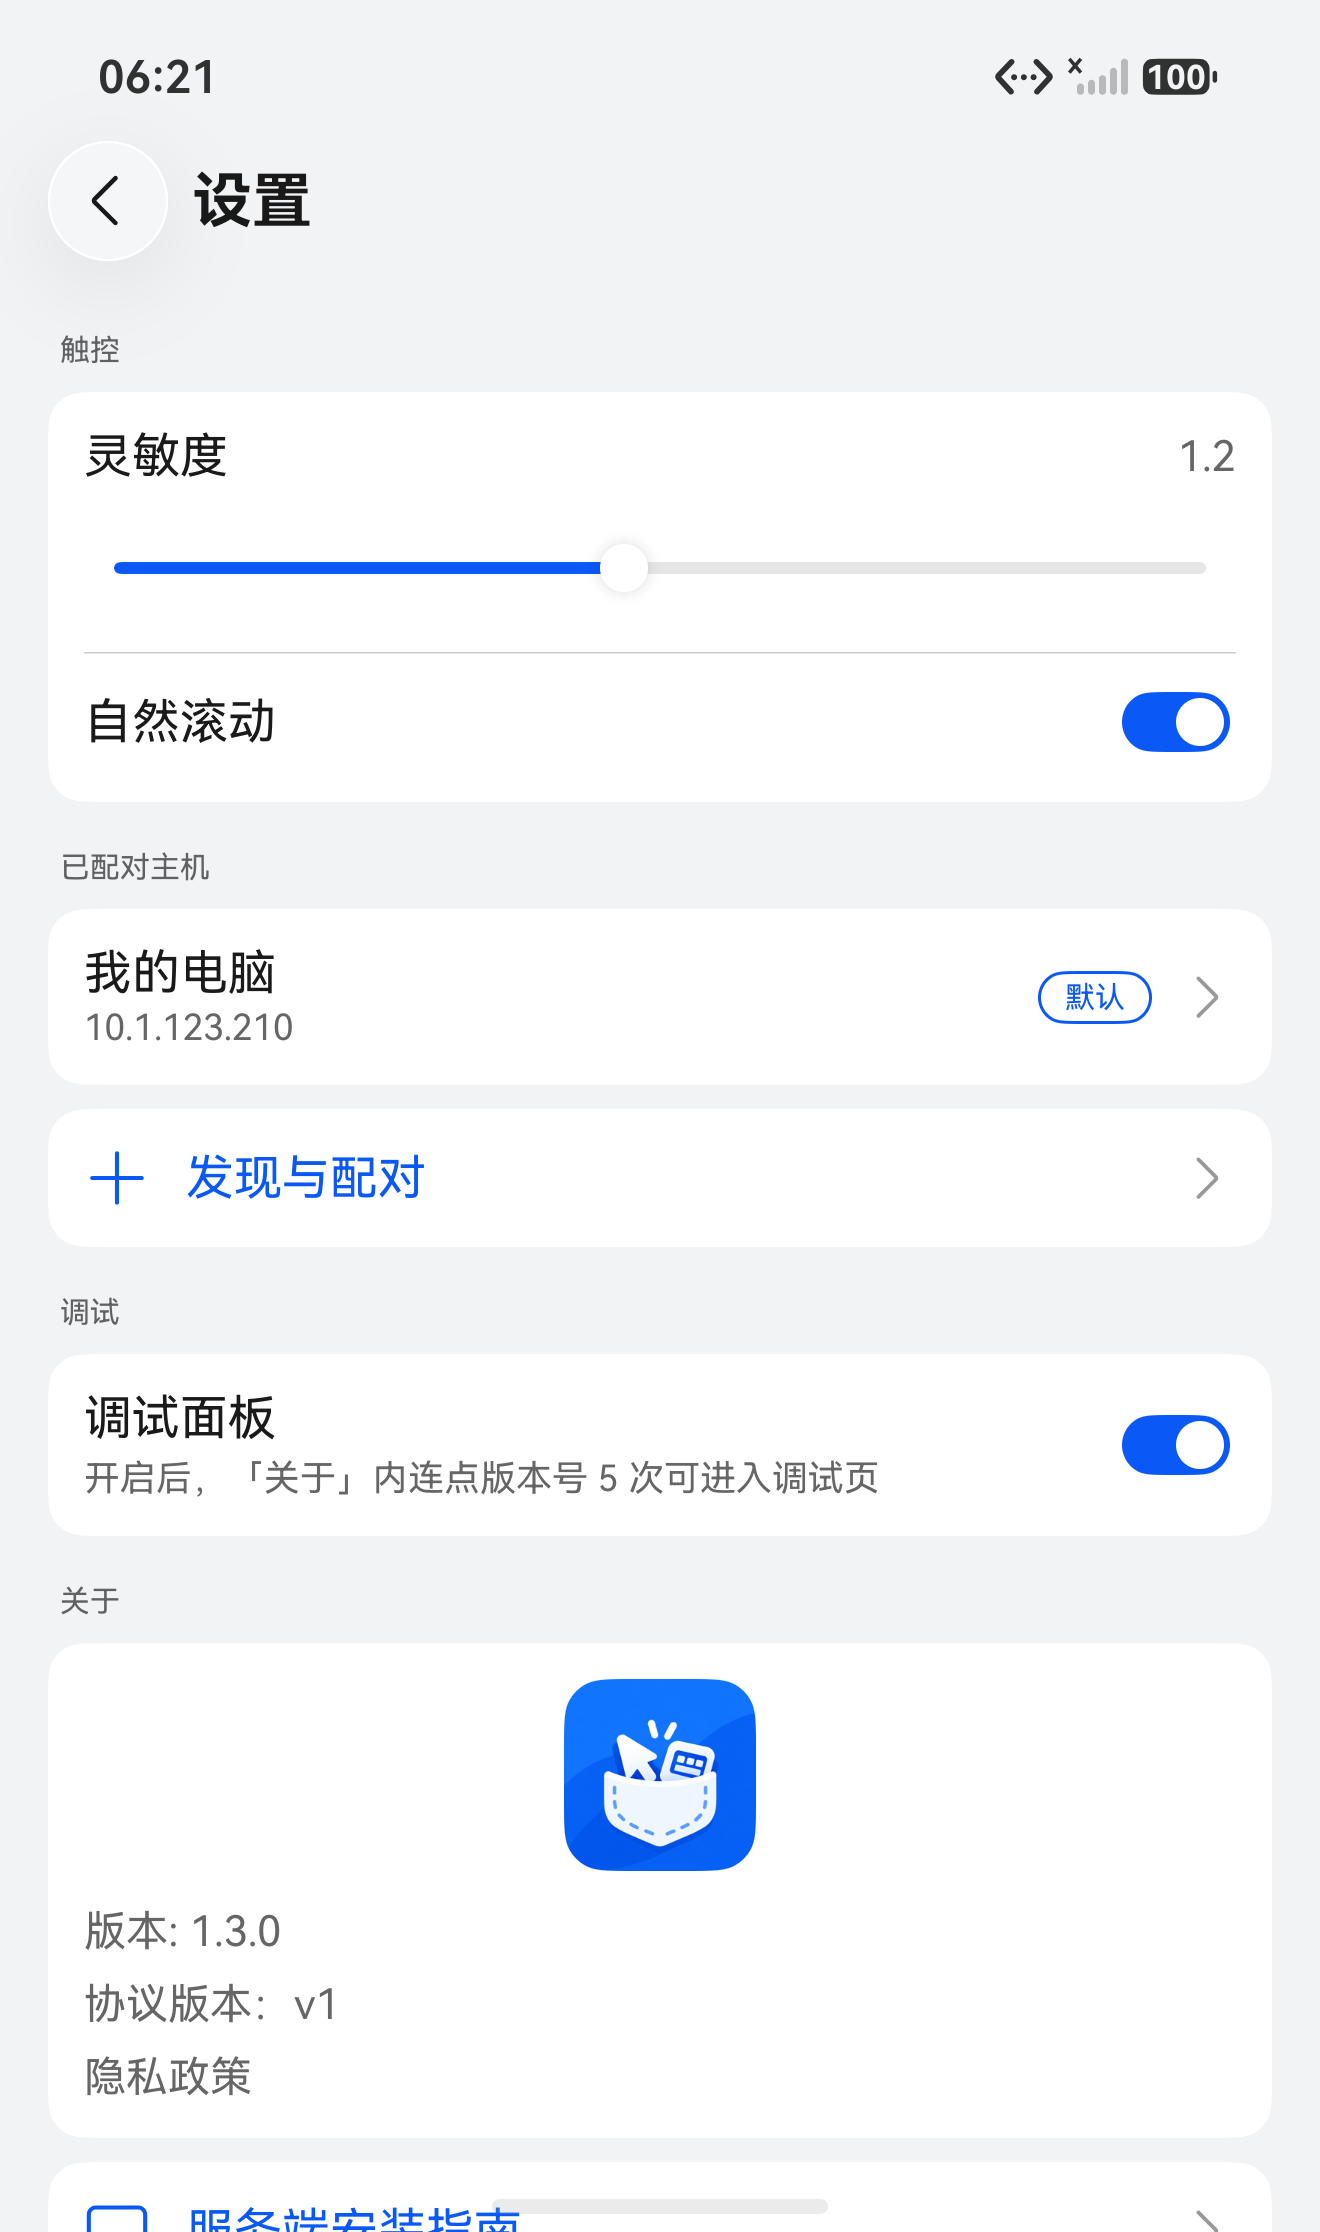
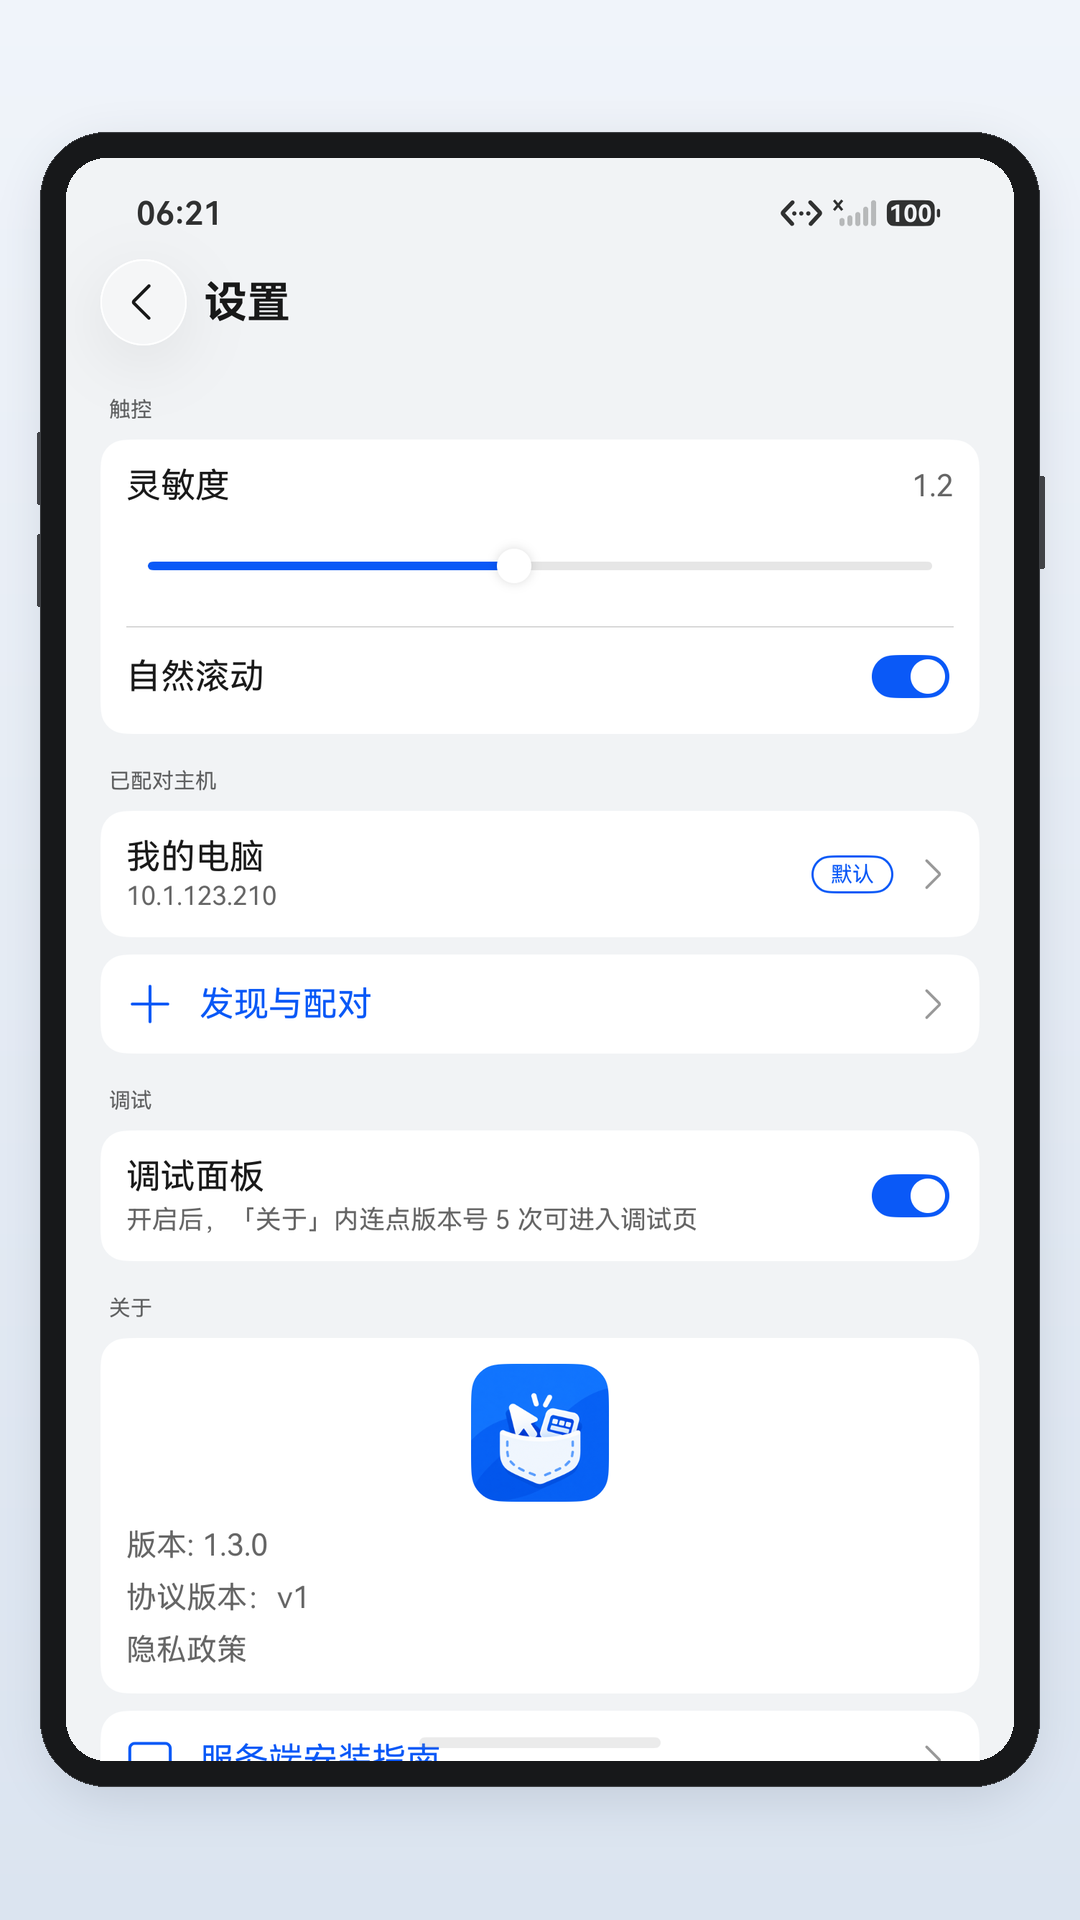
docs: AGC 截图改 9:16 手机 mockup 规格（1080×1920）
AGC 页面明确要求：3~10 张、宽高比 9:16、最低 1080×1920、PNG/JPG/JPEG ≤5MB（WEBP ≤200KB）；原 1320×2232 采集图比例（≈9:15.2）不符。改为：原图等比缩放到机身内屏（948×1603）后嵌入自绘手机 mockup 外壳（深色边框 + 细侧键 + 投影 + 浅色渐变背景），输出严格 1080×1920 9:16，不裁切内容，单张 94–372KB。未包裹原图存 docs/agc/raw/ 供重新套壳（换背景/加文案无需重拍），套壳脚本与参数写入文档第三节。权限弹窗佐证图保持未套壳。

Lore-id: 2bca0250
Constraint: 商店截图必须严格 9:16 且 ≥1080×1920（AGC 硬要求），mockup 只能加外壳不得裁切应用内容
Constraint: 截图内容必须仍是应用真实界面：外壳为装饰，不得合成/伪造界面元素
Directive: 换背景色或加标题文案时改文档第三节脚本重跑，不要手工改图；原图保留在 docs/agc/raw/
Tested: 7 张输出经 PIL 复核尺寸：均 1080×1920、比例 0.5625（严格 9:16），单张 ≤372KB
Tested: 抽检 2 张目视：边框圆角、侧键、投影正常，内屏内容完整无裁切、状态栏与手势条保留
Not-tested: AGC 实际上传校验（需账号侧操作；尺寸/格式/大小已按页面提示逐项对齐）
Not-tested: 真机补拍语音识别结果图（模拟器无真人语音，仍为『识别中』态）
Related: 1723ded2
Related: 761a2d97
Confidence: high
Scope-risk: narrow
Reversibility: clean

diff --git a/docs/AGC-MATERIALS.md b/docs/AGC-MATERIALS.md
@@ -1,7 +1,7 @@
 # AGC 提审素材（可直接粘贴）
 
 > 配套 `docs/AGC-SUBMIT.md`（流程手册）：本文件只放**填写内容**。字段上限以 AGC 页面内提示为准；本文已按保守长度撰写。
-> 截图在 `docs/agc/screenshots/`，均为 1320×2232 PNG（模拟器原生分辨率，2026-10-12 采集，中文界面、已连接状态）。
+> 截图在 `docs/agc/screenshots/`：**1080×1920（9:16）PNG，手机 mockup 外壳包裹**（2026-10-12 采集，中文界面、已连接状态）。未包裹的原图存于 `docs/agc/raw/`，可用第三节脚本重新套壳（换背景/加文案）。
 
 ## 一、一句话简介
 
@@ -56,8 +56,58 @@
 | 6 | `docs/agc/screenshots/06-设置（备选，含调试项）.png` | 设置页（灵敏度/自然滚动/已配对主机/关于） | 备选；该页含"调试面板"开关，如需更干净的商店图可不选 |
 | 7 | `docs/agc/screenshots/07-权限弹窗（审核佐证，非商店图）.png` | 麦克风权限弹窗（含用途说明） | **不要**作为商店图；留作审核备注的合规佐证 |
 
-- 规格：PNG，1320×2232（≥ 常见最小要求 720×1280），单张 < 400KB。AGC 若提示尺寸不符，用 `sips -z 2340 1080 输入.png --out 输出.png` 缩放。
+**AGC 要求（页面提示）**：3~10 张；宽高比 9:16；最低 1080×1920；PNG / JPG / JPEG（≤5MB）或 WEBP（≤200KB）。
+
+- 规格：PNG，**1080×1920（严格 9:16）**，单张 94–372KB。做法：模拟器原生 1320×2232 截图等比缩放到机身内屏（948×1603）后嵌入手机 mockup 外壳——深色边框 + 细侧键 + 投影 + 浅色渐变背景，**不裁切任何内容**。
 - 采集口径：系统语言简体中文、应用已与电脑连接（"已连接"状态）、无调试入口（手动配对卡片已关闭）。
+- 重新套壳（改背景色/加标题文案等）：用 `docs/agc/raw/` 原图跑第三节末尾的 PIL 脚本即可，无需重拍。
+- 第 7 张（权限弹窗）保持未套壳原样，作为审核佐证，**不要**上传到商店截图位。
+
+**套壳脚本（改样式时用，原图在 `docs/agc/raw/`）**
+
+```python
+# 依赖：pip install pillow（本机已装）
+from PIL import Image, ImageDraw, ImageFilter
+
+CANVAS, BEZEL, DEV_W, RADIUS = (1080, 1920), 26, 1000, 66
+SRC = {  # 输出文件名: 原图路径
+    '01-触摸板.png': 'docs/agc/raw/01-触摸板-原图.png',
+    '02-键盘.png': 'docs/agc/raw/02-键盘-原图.png',
+    '03-语音听写.png': 'docs/agc/raw/03-语音听写-原图.png',
+    '04-已配对主机.png': 'docs/agc/raw/04-已配对主机-原图.png',
+    '05-服务端安装指南.png': 'docs/agc/raw/05-服务端安装指南-原图.png',
+    '06-设置（备选，含调试项）.png': 'docs/agc/raw/06-设置-原图.png',
+}
+
+def bg(size):  # 浅色纵向渐变，可换品牌蓝等
+    top, bottom = (240, 244, 250), (219, 228, 240)
+    im = Image.new('RGB', (1, size[1]))
+    for y in range(size[1]):
+        t = y / (size[1] - 1)
+        im.putpixel((0, y), tuple(round(top[i] + (bottom[i] - top[i]) * t) for i in range(3)))
+    return im.resize(size, Image.BILINEAR)
+
+for out, src in SRC.items():
+    shot = Image.open(src).convert('RGB')
+    cw = DEV_W - 2 * BEZEL
+    ch = round(shot.height * cw / shot.width)
+    dev_h, x, y = ch + 2 * BEZEL, (CANVAS[0] - DEV_W) // 2, 0
+    y = (CANVAS[1] - dev_h) // 2
+    canvas = bg(CANVAS)
+    sh = Image.new('L', CANVAS, 0)
+    ImageDraw.Draw(sh).rounded_rectangle([x + 6, y + 16, x + DEV_W - 6, y + dev_h + 12], radius=RADIUS, fill=64)
+    canvas = Image.composite(Image.new('RGB', CANVAS, (124, 134, 148)), canvas, sh.filter(ImageFilter.GaussianBlur(24)))
+    d = ImageDraw.Draw(canvas)
+    for ex, y0, y1 in ((x, 300, 372), (x, 402, 474), (x + DEV_W, 344, 436)):  # 音量×2 / 电源
+        d.rounded_rectangle([ex - 3, y + y0, ex + 4, y + y1], radius=2, fill=(64, 66, 70))
+    d.rounded_rectangle([x, y, x + DEV_W - 1, y + dev_h - 1], radius=RADIUS, fill=(23, 24, 26), outline=(62, 64, 68), width=1)
+    scaled = shot.resize((cw, ch), Image.LANCZOS)
+    mask = Image.new('L', (cw, ch), 0)
+    ImageDraw.Draw(mask).rounded_rectangle([0, 0, cw - 1, ch - 1], radius=RADIUS - BEZEL, fill=255)
+    canvas.paste(scaled, (x + BEZEL, y + BEZEL), mask)
+    canvas.save(f'docs/agc/screenshots/{out}', 'PNG', optimize=True)
+```
+
 
 ## 四、备案话术（单机应用豁免）
 
